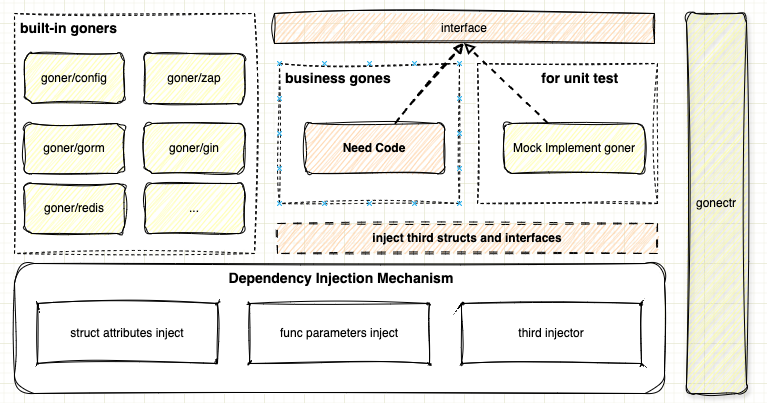
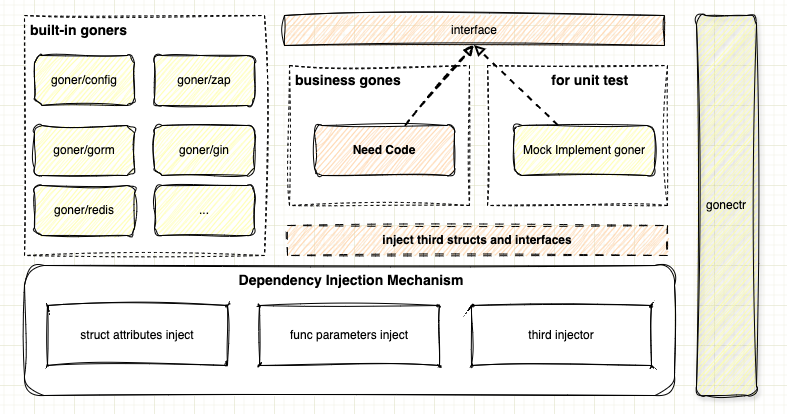
feat: update readme，add architecture png

diff --git a/README.md b/README.md
@@ -1,5 +1,5 @@
 <p align="left">
-   English&nbsp ｜&nbsp <a href="https://github.com/gone-io/gone/blob/main/README_CN.md">中文</a>
+   English&nbsp ｜&nbsp <a href="README_CN.md">中文</a>
 </p>
 
 [![license](https://img.shields.io/badge/license-GPL%20V3-blue)](LICENSE) 
